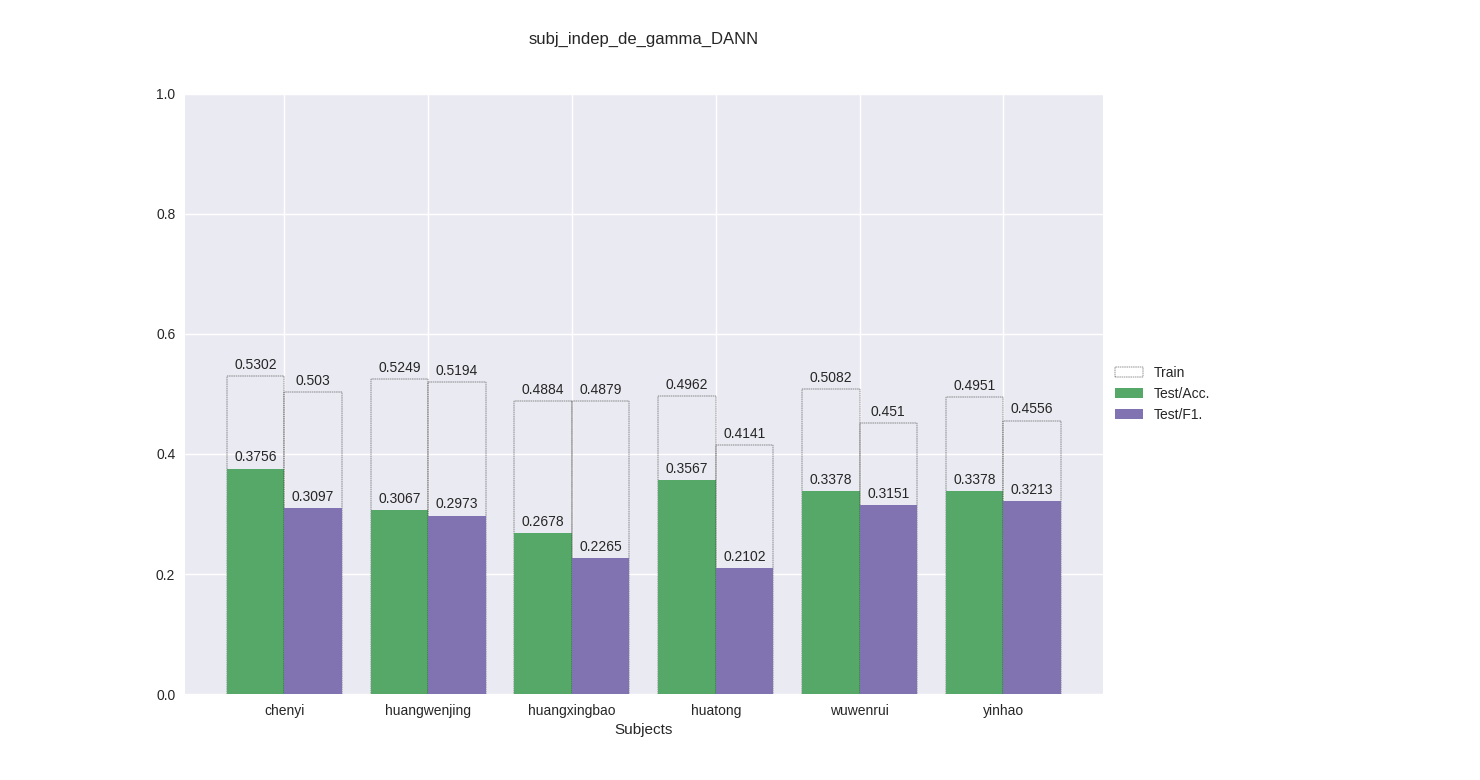
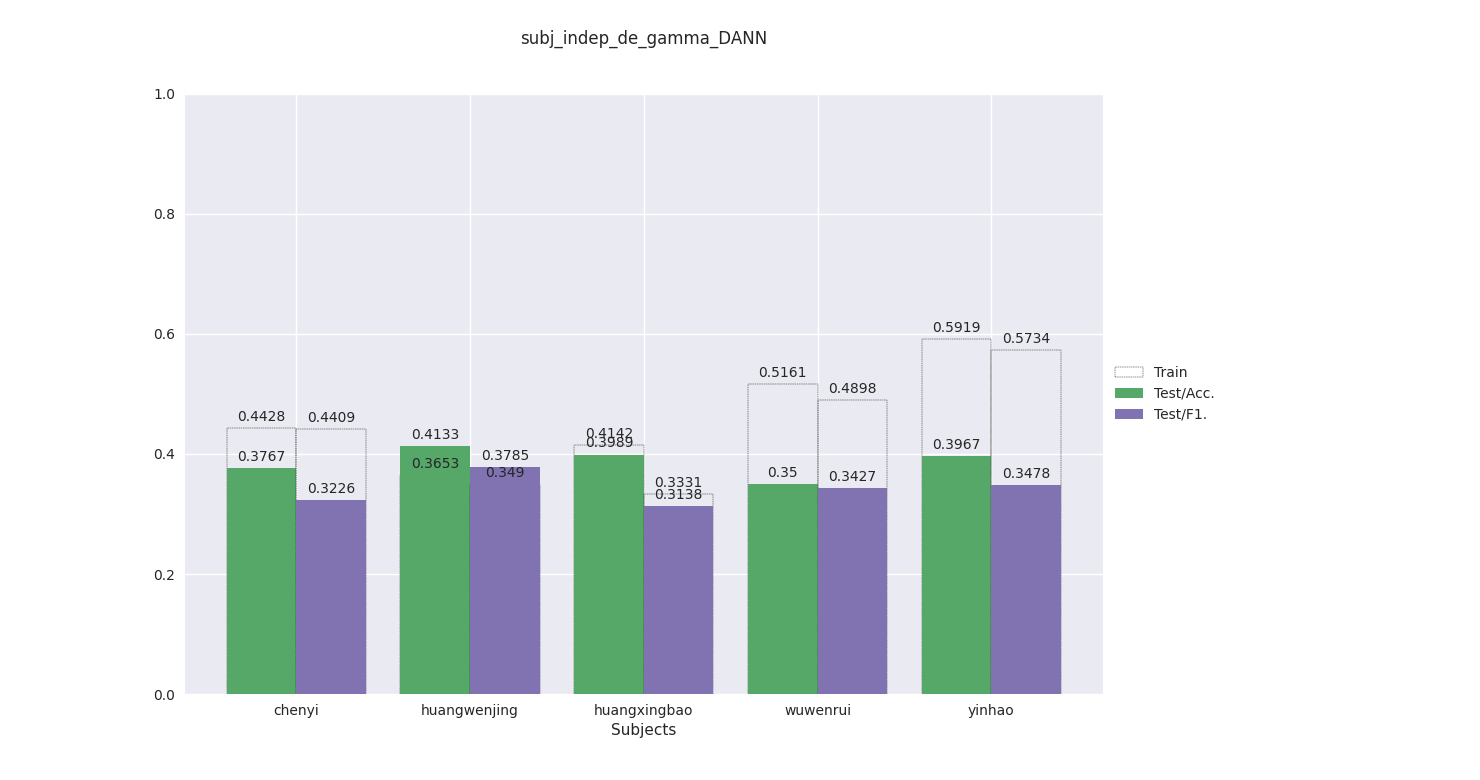
luo

diff --git a/train.py b/train.py
@@ -31,7 +31,7 @@ from sklearn.ensemble import RandomForestClassifier, AdaBoostClassifier
 from sklearn.discriminant_analysis import QuadraticDiscriminantAnalysis
 from sklearn.gaussian_process.kernels import RBF
 from sklearn.preprocessing import StandardScaler
-from sklearn.metrics import accuracy_score, plot_confusion_matrix, f1_score
+from sklearn.metrics import accuracy_score, confusion_matrix, f1_score
 # KFold is not enough, need to make sure the ratio between classes is the same in both train set and test set
 from sklearn.model_selection import GridSearchCV, StratifiedShuffleSplit, PredefinedSplit
 
@@ -106,8 +106,8 @@ class SVMTrainApp:
         self.label = dset.label.numpy()
         self.split_strategy = split_strategy
 
-        hyperparams = [{'kernel': ['rbf'], 'C': np.logspace(-9, 4, 14), 'gamma': np.logspace(-6, -2, 5)}]
-        # hyperparams = [{'kernel': ['rbf'], 'C': [100, 0.1], 'gamma': [0.0001, 0.00001]}]
+        # hyperparams = [{'kernel': ['rbf'], 'C': np.logspace(-9, 4, 14), 'gamma': np.logspace(-6, -2, 5)}]
+        hyperparams = [{'kernel': ['linear'], 'C': np.logspace(-9, 4, 14)}]
         # refit: after hp is determined, learn the best lp over the whole dataset, this is for prediction
         self.model = GridSearchCV(SVC(),
                                   param_grid=hyperparams,
@@ -130,9 +130,18 @@ class SVMTrainApp:
             result[ph] = {}
             for ind in indicators:
                 result[ph][ind] = self.model.cv_results_['mean_'+ph+'_'+ind][idx]
-        
+
         print('The best hyper parameters: {}'.format(self.model.best_params_))
-        
+
+        pred = self.model.best_estimator_.predict(X)
+        overall_acc = accuracy_score(Y, pred)
+        overall_f1 = f1_score(Y, pred, average='macro')
+        overall_class_acc = confusion_matrix(Y, pred, normalize='true').diagonal()
+
+        print('Overall acc: {:.4f}'.format(overall_acc))
+        print('Overall f1: {:.4f}'.format(overall_f1))
+        print('Class Acc: ', overall_class_acc)
+
         # pic_result = []
         # for pp in range(90):
         #     pic_result.append(self.model.cv_results_['split{}_test_accuracy'.format(pp)][idx])
@@ -999,7 +1008,7 @@ if __name__ == '__main__':
             ax.bar_label(acc_test_rect, padding=3)
             ax.bar_label(f1_train_rect, padding=3)
             ax.bar_label(f1_test_rect, padding=3)
-            fig.savefig('./figs_de_lds_5s/{}_{}_{}_{}.png'.format(args.exp, feature, freq, model_name))
+            fig.savefig('./figs_de_lds_5s_withoutproc/{}_{}_{}_{}.png'.format(args.exp, feature, freq, model_name))
             plt.close('all')
 
             print('====Train:\nacc: {:.4f}/{:.4f}\nf1: {:.4f}/{:.4f}'.format(subj_train_accs.mean(), subj_train_accs.std(), subj_train_f1s.mean(), subj_train_f1s.std()))
